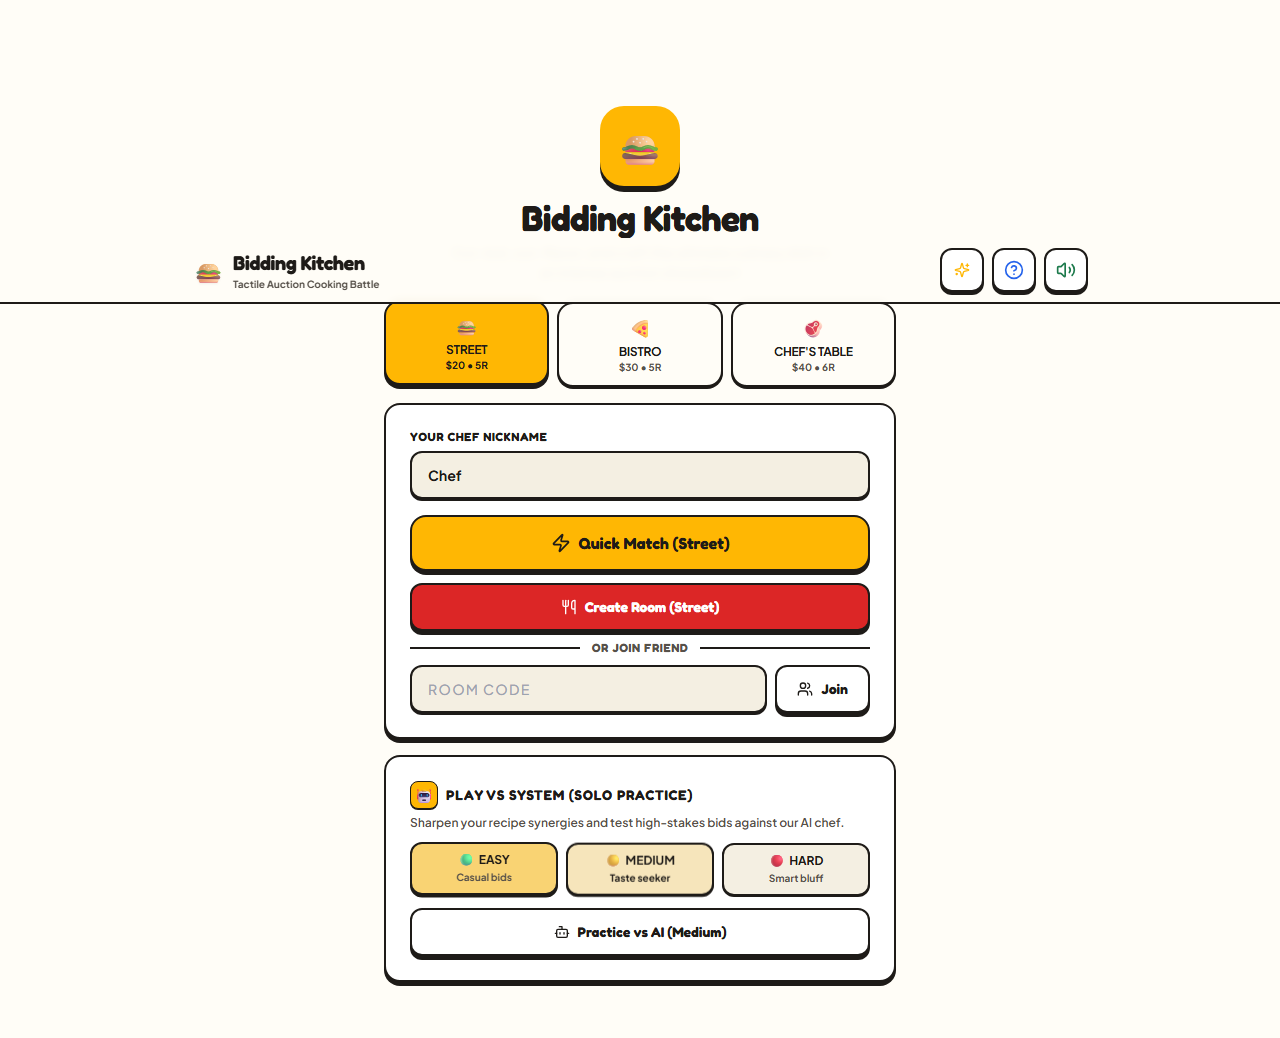
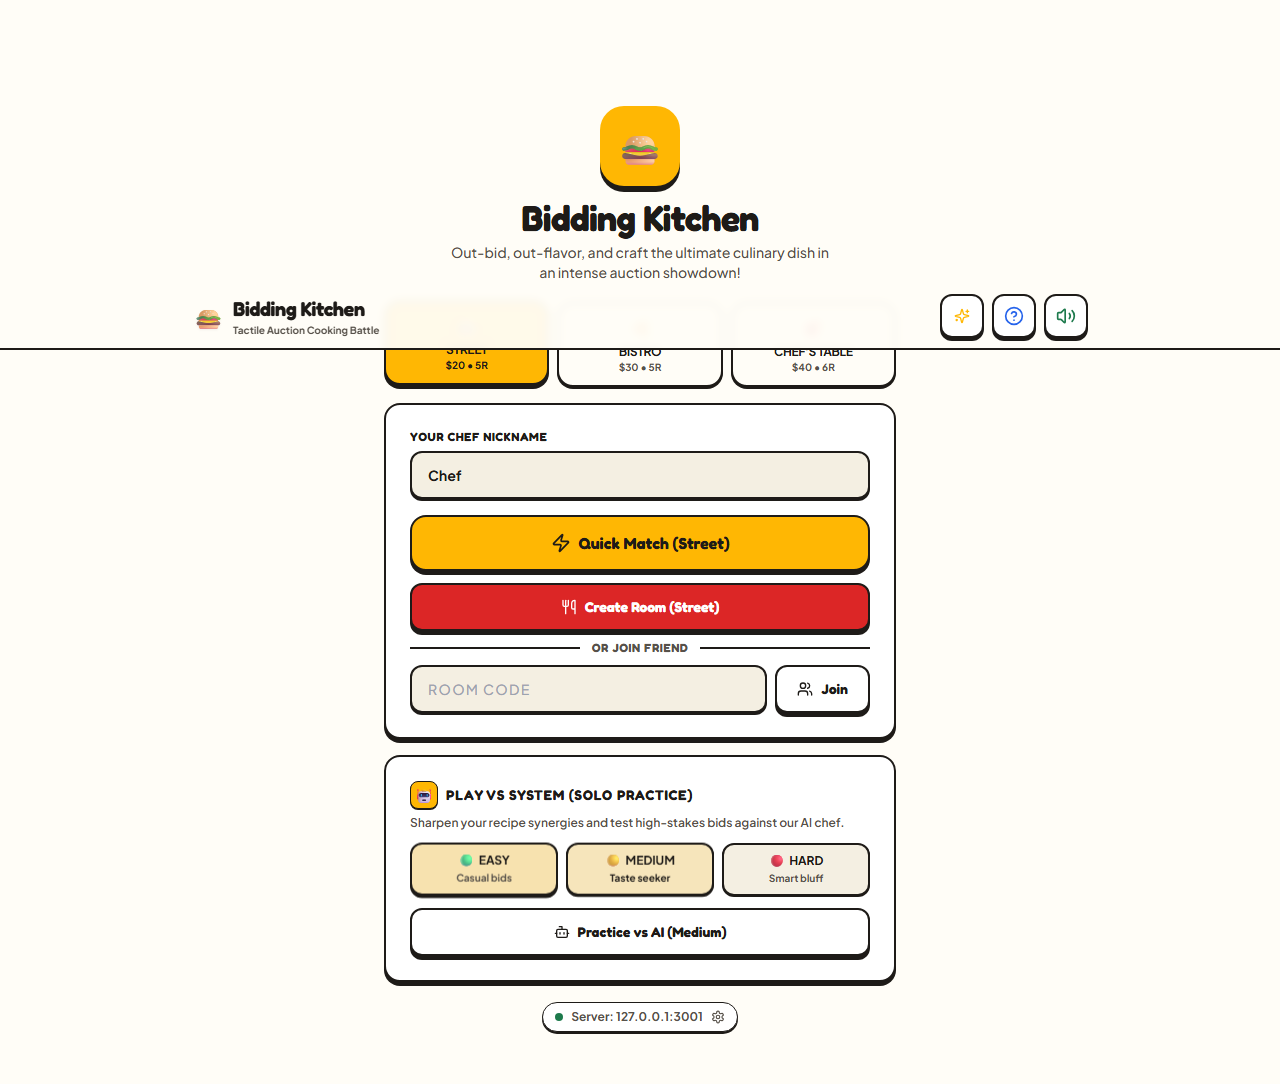
feat(deploy): add 1-click cloud server configs for Render/Railway and dynamic server URL settings in client

Changed region(s): [[0.1562, 0.2466, 0.875, 0.9557], [0.3438, 0.0925, 0.6562, 0.2775]]

diff --git a/apps/web/src/screens/LandingScreen.tsx b/apps/web/src/screens/LandingScreen.tsx
@@ -3,7 +3,7 @@ import type { BotDifficulty, TierId } from '@bidding-kitchen/shared';
 import { TIERS } from '@bidding-kitchen/shared';
 import { Button } from '../components/ui/Button.js';
 import { Card } from '../components/ui/Card.js';
-import { Utensils, Users, Zap, Sparkles, Loader2, X, Bot } from 'lucide-react';
+import { Utensils, Users, Zap, Sparkles, Loader2, X, Bot, Globe, Settings } from 'lucide-react';
 
 export interface LandingScreenProps {
   initialNickname?: string;
@@ -11,12 +11,14 @@ export interface LandingScreenProps {
   isSubmitting?: boolean;
   selectedTier?: TierId;
   isSearchingMatch?: boolean;
+  serverUrl?: string;
   onSelectTier?: (tier: TierId) => void;
   onCreateRoom?: (nickname: string, tier?: TierId) => void;
   onJoinRoom?: (code: string, nickname: string) => void;
   onQuickMatch?: (nickname: string, tier: TierId) => void;
   onCancelQuickMatch?: () => void;
   onPlayVsBot?: (nickname: string, tier: TierId, difficulty: BotDifficulty) => void;
+  onUpdateServerUrl?: (url: string) => void;
 }
 
 export const LandingScreen: React.FC<LandingScreenProps> = ({
@@ -25,12 +27,14 @@ export const LandingScreen: React.FC<LandingScreenProps> = ({
   isSubmitting = false,
   selectedTier: externalTier = 'STREET',
   isSearchingMatch = false,
+  serverUrl = '',
   onSelectTier,
   onCreateRoom,
   onJoinRoom,
   onQuickMatch,
   onCancelQuickMatch,
   onPlayVsBot,
+  onUpdateServerUrl,
 }) => {
   const [nickname, setNickname] = useState(initialNickname);
   const [joinCode, setJoinCode] = useState(initialRoomCode.toUpperCase());
@@ -38,6 +42,14 @@ export const LandingScreen: React.FC<LandingScreenProps> = ({
   const [botDifficulty, setBotDifficulty] = useState<BotDifficulty>('MEDIUM');
   const [nicknameError, setNicknameError] = useState('');
   const [joinCodeError, setJoinCodeError] = useState('');
+  const [showServerModal, setShowServerModal] = useState(false);
+  const [inputServerUrl, setInputServerUrl] = useState(serverUrl);
+
+  useEffect(() => {
+    if (serverUrl) {
+      setInputServerUrl(serverUrl);
+    }
+  }, [serverUrl]);
 
   useEffect(() => {
     if (initialRoomCode) {
@@ -376,6 +388,105 @@ export const LandingScreen: React.FC<LandingScreenProps> = ({
             : `Practice vs AI (${botDifficulty.charAt(0) + botDifficulty.slice(1).toLowerCase()})`}
         </Button>
       </Card>
+
+      {/* Server Status Pill */}
+      <div className="w-full flex items-center justify-center pt-1 pb-3">
+        <button
+          type="button"
+          data-testid="server-settings-btn"
+          onClick={() => setShowServerModal(true)}
+          className="inline-flex items-center gap-2 px-3 py-1.5 rounded-full bg-[#FFFFFF] border border-[#1E1B18] shadow-[0_2px_0_#1E1B18] text-xs font-bold text-[#57514A] hover:bg-[#F4EFE2] hover:text-[#1E1B18] transition cursor-pointer"
+        >
+          <span className="w-2 h-2 rounded-full bg-[#1D7A4C] shrink-0" />
+          <span className="truncate max-w-[200px]">
+            Server: {serverUrl ? serverUrl.replace(/^https?:\/\//, '') : 'Auto / Bound'}
+          </span>
+          <Settings className="w-3.5 h-3.5 text-[#57514A]" />
+        </button>
+      </div>
+
+      {/* Server Settings Modal */}
+      {showServerModal && (
+        <div
+          role="dialog"
+          aria-modal="true"
+          data-testid="server-settings-modal"
+          className="fixed inset-0 z-50 flex items-center justify-center p-4 bg-[#1E1B18]/70 backdrop-blur-sm animate-fade-in"
+        >
+          <div className="w-full max-w-md bg-[#FFFDF7] rounded-3xl border-3 border-[#1E1B18] shadow-[0_8px_0_#1E1B18] p-5">
+            <div className="flex items-center justify-between mb-3">
+              <div className="flex items-center gap-2">
+                <Globe className="w-5 h-5 text-[#2563EB]" />
+                <h3 className="text-base font-black font-display text-[#1E1B18]">
+                  Game Server Settings
+                </h3>
+              </div>
+              <button
+                type="button"
+                data-testid="close-server-modal-btn"
+                onClick={() => setShowServerModal(false)}
+                className="p-1 rounded-lg text-[#57514A] hover:text-[#1E1B18] hover:bg-[#F4EFE2]"
+              >
+                <X className="w-5 h-5" />
+              </button>
+            </div>
+
+            <p className="text-xs text-[#57514A] font-medium leading-relaxed mb-4">
+              Bidding Kitchen requires a persistent WebSocket backend. If playing on Vercel or across devices, enter your online server URL (e.g. hosted on Render, Railway, or Fly.io).
+            </p>
+
+            <div className="mb-4">
+              <label
+                htmlFor="server-url-input"
+                className="block text-xs font-black font-display text-[#1E1B18] uppercase tracking-wider mb-1.5"
+              >
+                Online Server URL
+              </label>
+              <input
+                id="server-url-input"
+                type="text"
+                data-testid="server-url-input"
+                value={inputServerUrl}
+                onChange={(e) => setInputServerUrl(e.target.value)}
+                placeholder="https://bidding-kitchen-server.onrender.com"
+                className="w-full min-h-[44px] px-3.5 rounded-xl border-2 border-[#1E1B18] bg-[#FFFFFF] text-[#1E1B18] font-mono text-xs focus:outline-none focus:ring-2 focus:ring-[#FFB703] shadow-[0_2px_0_#1E1B18]"
+              />
+            </div>
+
+            <div className="flex gap-2">
+              <Button
+                type="button"
+                variant="primary"
+                size="md"
+                fullWidth
+                data-testid="save-server-url-btn"
+                onClick={() => {
+                  if (inputServerUrl.trim()) {
+                    onUpdateServerUrl?.(inputServerUrl.trim());
+                  }
+                  setShowServerModal(false);
+                }}
+              >
+                Save & Connect
+              </Button>
+              <Button
+                type="button"
+                variant="secondary"
+                size="md"
+                data-testid="reset-server-url-btn"
+                onClick={() => {
+                  try {
+                    localStorage.removeItem('bk_server_url');
+                  } catch {}
+                  window.location.reload();
+                }}
+              >
+                Reset
+              </Button>
+            </div>
+          </div>
+        </div>
+      )}
     </div>
   );
 };

diff --git a/apps/web/src/network/socket-client.ts b/apps/web/src/network/socket-client.ts
@@ -10,10 +10,36 @@ import type {
   TierId,
 } from '@bidding-kitchen/shared';
 
-const resolveDefaultServerUrl = (): string => {
+export const resolveDefaultServerUrl = (): string => {
+  if (typeof window !== 'undefined') {
+    // 1. URL query parameter override e.g. ?server=https://my-server.onrender.com
+    const params = new URLSearchParams(window.location.search);
+    const paramServer = params.get('server');
+    if (paramServer) {
+      try {
+        localStorage.setItem('bk_server_url', paramServer);
+      } catch {
+        // ignore
+      }
+      return paramServer;
+    }
+
+    // 2. LocalStorage override
+    try {
+      const saved = localStorage.getItem('bk_server_url');
+      if (saved && saved.trim()) {
+        return saved.trim();
+      }
+    } catch {
+      // ignore
+    }
+  }
+
+  // 3. Build-time Vite env variable
   if (import.meta.env.VITE_SERVER_URL) {
     return import.meta.env.VITE_SERVER_URL;
   }
+
   if (typeof window !== 'undefined' && window.location?.origin) {
     const isLocalhost =
       window.location.hostname === 'localhost' ||
@@ -37,6 +63,28 @@ export class SocketClient {
 
   constructor(serverUrl = DEFAULT_SERVER_URL) {
     this.serverUrl = serverUrl;
+  }
+
+  public getServerUrl(): string {
+    return this.serverUrl;
+  }
+
+  public setServerUrl(url: string): void {
+    const trimmed = url.trim().replace(/\/+$/, '');
+    if (!trimmed) return;
+    this.serverUrl = trimmed;
+    if (typeof window !== 'undefined') {
+      try {
+        localStorage.setItem('bk_server_url', trimmed);
+      } catch {
+        // ignore
+      }
+    }
+    if (this.socket) {
+      this.socket.disconnect();
+      this.socket = null;
+    }
+    this.connect();
   }
 
   public getSocket(): Socket<ServerToClientEvents, ClientToServerEvents> {
@@ -83,7 +131,8 @@ export class SocketClient {
             ok: false,
             error: {
               code: 'INVALID_STATE_ACTION',
-              message: 'Server request timed out. Please try again.',
+              message:
+                'Server request timed out. Please verify that your online game server is running and configured.',
             },
           });
         }

diff --git a/apps/web/src/store/match-store.ts b/apps/web/src/store/match-store.ts
@@ -40,6 +40,7 @@ export interface MatchStoreState {
   isSearchingMatch: boolean;
   matchTicketId: string | null;
   selectedTier: TierId;
+  serverUrl: string;
 }
 
 class MatchStore {
@@ -57,6 +58,7 @@ class MatchStore {
     isSearchingMatch: false,
     matchTicketId: null,
     selectedTier: 'STREET',
+    serverUrl: socketClient.getServerUrl(),
   };
 
   private listeners = new Set<() => void>();
@@ -323,6 +325,11 @@ class MatchStore {
       matchTicketId: null,
       isSubmittingAction: false,
     });
+  };
+
+  public setServerUrl = (url: string): void => {
+    socketClient.setServerUrl(url);
+    this.setState({ serverUrl: socketClient.getServerUrl() });
   };
 
   public createRoom = async (nickname: string, tier?: TierId): Promise<boolean> => {

diff --git a/apps/web/src/screens/LiveMatchContainer.tsx b/apps/web/src/screens/LiveMatchContainer.tsx
@@ -131,6 +131,8 @@ export const LiveMatchContainer: React.FC = () => {
               onQuickMatch={store.startQuickMatch}
               onCancelQuickMatch={store.cancelQuickMatch}
               onPlayVsBot={store.createBotRoom}
+              serverUrl={storeState.serverUrl}
+              onUpdateServerUrl={store.setServerUrl}
             />
           )}
 
